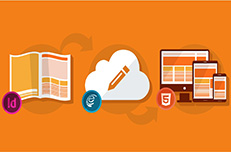
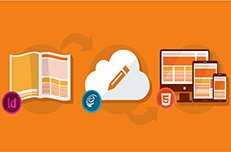
Added image compression and sorted google maps api key issue

diff --git a/assets/js/framework.min.js b/assets/js/framework.min.js
@@ -1,1 +1,1 @@
-"use strict";function getStyle(a,b){var c=document.getElementById(a);if(c.currentStyle)var d=c.currentStyle[b];else if(window.getComputedStyle)var d=document.defaultView.getComputedStyle(c,null).getPropertyValue(b);return d}$.responsive={width1:1280,width2:1023,width3:768,width4:480,viewport:function(){var a=$(window).width(),b="desktop";return a>=this.width2&&a<this.width1&&(b="desktop-compact"),a>=this.width3&&a<this.width2&&(b="tablet-portrait"),a>=this.width4&&a<this.width3&&(b="mobile-landscape"),a>=0&&a<this.width4&&(b="mobile-portrait"),$("html").removeClass("desktop desktop-compact tablet-portrait mobile-landscape mobile-portrait"),$("html").addClass(b),b},device:function(){var a;switch(this.viewport()){case"tablet-landscape":case"tablet-portrait":a="tablet";break;case"mobile-landscape":case"mobile-portrait":a="mobile";break;default:a="desktop"}return $("html").removeClass("mobile tablet desktop"),$("html").addClass(a),a}},$.enable={removeImageLinkTitles:function(){$("img").parent("a").removeAttr("title")},backToTop:function(){$('a[rel="back-to-top"]').click(function(a){$("html, body").animate({scrollTop:0},"slow"),a.preventDefault()})},IE7LastChild:function(){$.browser.ltie8&&$(":last-child").addClass("last-child")},IE7HoverFocus:function(){$.browser.ltie8&&$(":input").focus(function(){$(this).addClass("focus")}).blur(function(){$(this).removeClass("focus")}).hover(function(){$(this).addClass("hover")},function(){$(this).removeClass("hover")})}},$.settings={images:function(){$('<img src="/assets-ui/img/blank.gif#'+Math.random()+'"/>').error(function(){$("html").addClass("images-off"),$.settings.images=!1})},touchEnabled:function(){return"ontouchstart"in window||"onmsgesturechange"in window?($("html").addClass("touchenabled"),!0):($("html").removeClass("touchenabled"),!1)}},$.browser={ie:$("html").hasClass("ie"),ie7:$("html").hasClass("ie7"),ie8:$("html").hasClass("ie8"),ie9:$("html").hasClass("ie9"),ie10:$("html").hasClass("ie10"),ltie7:$("html").hasClass("ltie7"),ltie8:$("html").hasClass("ltie8"),ltie9:$("html").hasClass("ltie9"),ltie10:$("html").hasClass("ltie10"),gtie6:$("html").hasClass("gtie6"),gtie7:$("html").hasClass("gtie7"),gtie8:$("html").hasClass("gtie8"),gtie9:$("html").hasClass("gtie9")},$.events={mouseLeftDown:!1,mouseMiddleDown:!1,mouseRightDown:!1},$(document).mousedown(function(a){1===a.which&&($.events.mouseLeftDown=!0),2===a.which&&($.events.mouseMiddleDown=!0),3===a.which&&($.events.mouseRightDown=!0)}).mouseup(function(){$.events={mouseLeftDown:!1,mouseMiddleDown:!1,mouseRightDown:!1}}),$(function(){$.enable.removeImageLinkTitles(!0),$.enable.backToTop(!0),$.enable.IE7LastChild(!0),$.enable.IE7HoverFocus(!0)}),$(function(){$("html").addClass("images-off"),$('<img src="./assets/img/structure/pixel.png#'+Math.random()+'"/>').load(function(){$("html").removeClass("images-off")})});var touchEnabled="ontouchstart"in window||"onmsgesturechange"in window;touchEnabled&&$("html").addClass("touchenabled"),$(function(){if(navigator.userAgent.match(/iPad/i)){var a=function(){if(/iP(hone|od|ad)/.test(navigator.appVersion)){var a=navigator.appVersion.match(/OS (\d+)_(\d+)_?(\d+)?/);return[parseInt(a[1],10),parseInt(a[2],10),parseInt(a[3]||0,10)]}},b=a(),c=document.querySelector('meta[name="viewport"]');5===b[0]&&c&&(c.content="width=device-width, minimum-scale=1.0, maximum-scale=1.0, initial-scale=1.0",jQuery(document).ready(function(){document.body.addEventListener("gesturestart",function(){c.content="width=device-width, minimum-scale=0.25, maximum-scale=1.6"},!1)}))}}),$(function(){var a=$("body"),b=$("html");$(document).on("click",".toggle-grid",function(b){b.preventDefault(),$(a).toggleClass("framework")}),$(document).on("click",".toggle-grid-type",function(b){b.preventDefault(),$(a).toggleClass("gutterless")}),$(document).on("click",".toggle-ads",function(a){a.preventDefault(),$(b).toggleClass("takeover-active")})}),window.rm=window.rm||{},window.rm.placeholderText=window.rm.placeholderText||{},window.rm.placeholderText=function(a){a(function(){Modernizr.input.placeholder||(a("[placeholder]").focus(function(){var b=a(this);b.val()===b.attr("placeholder")&&(b.val(""),b.removeClass("placeholder"))}).blur(function(){var b=a(this);(""===b.val()||b.val()===b.attr("placeholder"))&&(b.addClass("placeholder"),b.val(b.attr("placeholder")))}).blur(),a("[placeholder]").parents("form").submit(function(){a(this).find("[placeholder]").each(function(){var b=a(this);b.val()===b.attr("placeholder")&&b.val("")})}))})}(jQuery);var setAdWidth=function(){var a=getStyle("wrapper","margin-left"),b=getStyle("wrapper","margin-right");$(".ad-left").css("width",a),$(".ad-right").css("width",b)};$(function(){var a=Origami.fastclick;a(document.body)});
+"use strict";function getStyle(a,b){var c=document.getElementById(a);if(c.currentStyle)var d=c.currentStyle[b];else if(window.getComputedStyle)var d=document.defaultView.getComputedStyle(c,null).getPropertyValue(b);return d}$.responsive={width1:1280,width2:1023,width3:768,width4:480,viewport:function(){var a=$(window).width(),b="desktop";return a>=this.width2&&a<this.width1&&(b="desktop-compact"),a>=this.width3&&a<this.width2&&(b="tablet-portrait"),a>=this.width4&&a<this.width3&&(b="mobile-landscape"),a>=0&&a<this.width4&&(b="mobile-portrait"),$("html").removeClass("desktop desktop-compact tablet-portrait mobile-landscape mobile-portrait"),$("html").addClass(b),b},device:function(){var a;switch(this.viewport()){case"tablet-landscape":case"tablet-portrait":a="tablet";break;case"mobile-landscape":case"mobile-portrait":a="mobile";break;default:a="desktop"}return $("html").removeClass("mobile tablet desktop"),$("html").addClass(a),a}},$.enable={removeImageLinkTitles:function(){$("img").parent("a").removeAttr("title")},backToTop:function(){$('a[rel="back-to-top"]').click(function(a){$("html, body").animate({scrollTop:0},"slow"),a.preventDefault()})},IE7LastChild:function(){$.browser.ltie8&&$(":last-child").addClass("last-child")},IE7HoverFocus:function(){$.browser.ltie8&&$(":input").focus(function(){$(this).addClass("focus")}).blur(function(){$(this).removeClass("focus")}).hover(function(){$(this).addClass("hover")},function(){$(this).removeClass("hover")})}},$.settings={images:function(){$('<img src="/assets-ui/img/blank.gif#'+Math.random()+'"/>').error(function(){$("html").addClass("images-off"),$.settings.images=!1})},touchEnabled:function(){return"ontouchstart"in window||"onmsgesturechange"in window?($("html").addClass("touchenabled"),!0):($("html").removeClass("touchenabled"),!1)}},$.browser={ie:$("html").hasClass("ie"),ie7:$("html").hasClass("ie7"),ie8:$("html").hasClass("ie8"),ie9:$("html").hasClass("ie9"),ie10:$("html").hasClass("ie10"),ltie7:$("html").hasClass("ltie7"),ltie8:$("html").hasClass("ltie8"),ltie9:$("html").hasClass("ltie9"),ltie10:$("html").hasClass("ltie10"),gtie6:$("html").hasClass("gtie6"),gtie7:$("html").hasClass("gtie7"),gtie8:$("html").hasClass("gtie8"),gtie9:$("html").hasClass("gtie9")},$.events={mouseLeftDown:!1,mouseMiddleDown:!1,mouseRightDown:!1},$(document).mousedown(function(a){1===a.which&&($.events.mouseLeftDown=!0),2===a.which&&($.events.mouseMiddleDown=!0),3===a.which&&($.events.mouseRightDown=!0)}).mouseup(function(){$.events={mouseLeftDown:!1,mouseMiddleDown:!1,mouseRightDown:!1}}),$(function(){$.enable.removeImageLinkTitles(!0),$.enable.backToTop(!0),$.enable.IE7LastChild(!0),$.enable.IE7HoverFocus(!0)}),$(function(){$("html").addClass("images-off"),$('<img src="./assets/img/structure/pixel.png#'+Math.random()+'"/>').load(function(){$("html").removeClass("images-off")})});var touchEnabled="ontouchstart"in window||"onmsgesturechange"in window;touchEnabled&&$("html").addClass("touchenabled"),$(function(){if(navigator.userAgent.match(/iPad/i)){var a=function(){if(/iP(hone|od|ad)/.test(navigator.appVersion)){var a=navigator.appVersion.match(/OS (\d+)_(\d+)_?(\d+)?/);return[parseInt(a[1],10),parseInt(a[2],10),parseInt(a[3]||0,10)]}},b=a(),c=document.querySelector('meta[name="viewport"]');5===b[0]&&c&&(c.content="width=device-width, minimum-scale=1.0, maximum-scale=1.0, initial-scale=1.0",jQuery(document).ready(function(){document.body.addEventListener("gesturestart",function(){c.content="width=device-width, minimum-scale=0.25, maximum-scale=1.6"},!1)}))}}),$(function(){var a=$("body"),b=$("html");$(document).on("click",".toggle-grid",function(b){b.preventDefault(),$(a).toggleClass("framework")}),$(document).on("click",".toggle-grid-type",function(b){b.preventDefault(),$(a).toggleClass("gutterless")}),$(document).on("click",".toggle-ads",function(a){a.preventDefault(),$(b).toggleClass("takeover-active")})});var setAdWidth=function(){var a=getStyle("wrapper","margin-left"),b=getStyle("wrapper","margin-right");$(".ad-left").css("width",a),$(".ad-right").css("width",b)};$(function(){var a=Origami.fastclick;a(document.body)});

diff --git a/assets/js/framework.js b/assets/js/framework.js
@@ -347,40 +347,40 @@ $(function () {
 
 /* COMPONENT - placeholderText 1.0 */
 
-window.rm  = window.rm || {};
-window.rm.placeholderText = window.rm.placeholderText || {};
+// window.rm  = window.rm || {};
+// window.rm.placeholderText = window.rm.placeholderText || {};
 
-window.rm.placeholderText = (function ($) {
-    'use strict';
+// window.rm.placeholderText = (function ($) {
+//     'use strict';
 
-    $(function (){
-        if (!Modernizr.input.placeholder) {
+//     $(function (){
+//         if (!Modernizr.input.placeholder) {
 
-            $('[placeholder]').focus(function () {
-                var input = $(this);
-                if (input.val() === input.attr('placeholder')) {
-                    input.val('');
-                    input.removeClass('placeholder');
-                }
-            }).blur(function () {
-                var input = $(this);
-                if (input.val() === '' || input.val() === input.attr('placeholder')) {
-                    input.addClass('placeholder');
-                    input.val(input.attr('placeholder'));
-                }
-            }).blur();
-            $('[placeholder]').parents('form').submit(function () {
-                $(this).find('[placeholder]').each(function () {
-                    var input = $(this);
-                    if (input.val() === input.attr('placeholder')) {
-                        input.val('');
-                    }
-                });
-            });
-        }
-    });
+//             $('[placeholder]').focus(function () {
+//                 var input = $(this);
+//                 if (input.val() === input.attr('placeholder')) {
+//                     input.val('');
+//                     input.removeClass('placeholder');
+//                 }
+//             }).blur(function () {
+//                 var input = $(this);
+//                 if (input.val() === '' || input.val() === input.attr('placeholder')) {
+//                     input.addClass('placeholder');
+//                     input.val(input.attr('placeholder'));
+//                 }
+//             }).blur();
+//             $('[placeholder]').parents('form').submit(function () {
+//                 $(this).find('[placeholder]').each(function () {
+//                     var input = $(this);
+//                     if (input.val() === input.attr('placeholder')) {
+//                         input.val('');
+//                     }
+//                 });
+//             });
+//         }
+//     });
     
-}(jQuery));
+// }(jQuery));
 
 
 function getStyle(el,styleProp) {

diff --git a/assets/js/framework/base.js b/assets/js/framework/base.js
@@ -347,40 +347,40 @@ $(function () {
 
 /* COMPONENT - placeholderText 1.0 */
 
-window.rm  = window.rm || {};
-window.rm.placeholderText = window.rm.placeholderText || {};
+// window.rm  = window.rm || {};
+// window.rm.placeholderText = window.rm.placeholderText || {};
 
-window.rm.placeholderText = (function ($) {
-    'use strict';
+// window.rm.placeholderText = (function ($) {
+//     'use strict';
 
-    $(function (){
-        if (!Modernizr.input.placeholder) {
+//     $(function (){
+//         if (!Modernizr.input.placeholder) {
 
-            $('[placeholder]').focus(function () {
-                var input = $(this);
-                if (input.val() === input.attr('placeholder')) {
-                    input.val('');
-                    input.removeClass('placeholder');
-                }
-            }).blur(function () {
-                var input = $(this);
-                if (input.val() === '' || input.val() === input.attr('placeholder')) {
-                    input.addClass('placeholder');
-                    input.val(input.attr('placeholder'));
-                }
-            }).blur();
-            $('[placeholder]').parents('form').submit(function () {
-                $(this).find('[placeholder]').each(function () {
-                    var input = $(this);
-                    if (input.val() === input.attr('placeholder')) {
-                        input.val('');
-                    }
-                });
-            });
-        }
-    });
+//             $('[placeholder]').focus(function () {
+//                 var input = $(this);
+//                 if (input.val() === input.attr('placeholder')) {
+//                     input.val('');
+//                     input.removeClass('placeholder');
+//                 }
+//             }).blur(function () {
+//                 var input = $(this);
+//                 if (input.val() === '' || input.val() === input.attr('placeholder')) {
+//                     input.addClass('placeholder');
+//                     input.val(input.attr('placeholder'));
+//                 }
+//             }).blur();
+//             $('[placeholder]').parents('form').submit(function () {
+//                 $(this).find('[placeholder]').each(function () {
+//                     var input = $(this);
+//                     if (input.val() === input.attr('placeholder')) {
+//                         input.val('');
+//                     }
+//                 });
+//             });
+//         }
+//     });
     
-}(jQuery));
+// }(jQuery));
 
 
 function getStyle(el,styleProp) {

diff --git a/index.html b/index.html
@@ -16,12 +16,12 @@
 		<link rel="icon" href="/favicon.ico" type="image/x-icon">
 	
 	    <!-- CSS -->
-	  <link rel="stylesheet" type="text/css" href="//cloud.typography.com/6942954/780906/css/fonts.css" />
+	  <!-- <link rel="stylesheet" type="text/css" href="//cloud.typography.com/6942954/780906/css/fonts.css" /> -->
 		<link type="text/css" rel="stylesheet" href="assets/css/main.css">
 	  <link type="text/css" rel="stylesheet" href="assets/css/print.css" media="print">
 	
 	    <!-- Must live here to provide html5 shiv in IE8 -->
-	    <script src="assets/js/lib/single/modernizr-2.8.3.js"></script>
+			<!-- <script src="assets/js/lib/single/modernizr-2.8.3.js"></script> -->
 	
 	    <!--[if lt IE 9]>    	
 			<script src="assets/js/lib/single/respond.min.js"></script>
@@ -359,10 +359,21 @@
 			</div><!-- .main -->			
 	</div><!-- .wrapper -->
 
+	<script type="text/javascript">
+	var cb = function() {
+	        var l = document.createElement('link'); l.rel = 'stylesheet';
+	        l.href = '//cloud.typography.com/6942954/780906/css/fonts.css';
+	        var h = document.getElementsByTagName('head')[0]; h.parentNode.insertBefore(l, h);
+	      };
+	      var raf = requestAnimationFrame || mozRequestAnimationFrame ||
+	          webkitRequestAnimationFrame || msRequestAnimationFrame;
+	      if (raf) raf(cb);
+	      else window.addEventListener('load', cb);
+	</script>
 	<script type="text/javascript" src="assets/js/lib.min.js"></script>
 	<script type="text/javascript" src="https://maps.googleapis.com/maps/api/js?key=AIzaSyAzmGOrzP1jQpzOBBJyqxBTMruDNRU4BSo&sensor=false"></script>
 	<script type="text/javascript" src="assets/js/framework.min.js"></script>
-	<script type="text/javascript" src="assets/js/components.js"></script>
+	<script type="text/javascript" src="assets/js/components.min.js"></script>
 
   </body>
 </html>

diff --git a/templates/structure/footer.html b/templates/structure/footer.html
@@ -1,4 +1,15 @@
+<script type="text/javascript">
+var cb = function() {
+        var l = document.createElement('link'); l.rel = 'stylesheet';
+        l.href = '//cloud.typography.com/6942954/780906/css/fonts.css';
+        var h = document.getElementsByTagName('head')[0]; h.parentNode.insertBefore(l, h);
+      };
+      var raf = requestAnimationFrame || mozRequestAnimationFrame ||
+          webkitRequestAnimationFrame || msRequestAnimationFrame;
+      if (raf) raf(cb);
+      else window.addEventListener('load', cb);
+</script>
 <script type="text/javascript" src="assets/js/lib.min.js"></script>
 <script type="text/javascript" src="https://maps.googleapis.com/maps/api/js?key=AIzaSyAzmGOrzP1jQpzOBBJyqxBTMruDNRU4BSo&sensor=false"></script>
 <script type="text/javascript" src="assets/js/framework.min.js"></script>
-<script type="text/javascript" src="assets/js/components.js"></script>
+<script type="text/javascript" src="assets/js/components.min.js"></script>

diff --git a/templates/structure/html-header.html b/templates/structure/html-header.html
@@ -8,12 +8,12 @@
 	<link rel="icon" href="/favicon.ico" type="image/x-icon">
 
     <!-- CSS -->
-  <link rel="stylesheet" type="text/css" href="//cloud.typography.com/6942954/780906/css/fonts.css" />
+  <!-- <link rel="stylesheet" type="text/css" href="//cloud.typography.com/6942954/780906/css/fonts.css" /> -->
 	<link type="text/css" rel="stylesheet" href="assets/css/main.css">
   <link type="text/css" rel="stylesheet" href="assets/css/print.css" media="print">
 
     <!-- Must live here to provide html5 shiv in IE8 -->
-    <script src="assets/js/lib/single/modernizr-2.8.3.js"></script>
+		<!-- <script src="assets/js/lib/single/modernizr-2.8.3.js"></script> -->
 
     <!--[if lt IE 9]>    	
 		<script src="assets/js/lib/single/respond.min.js"></script>
